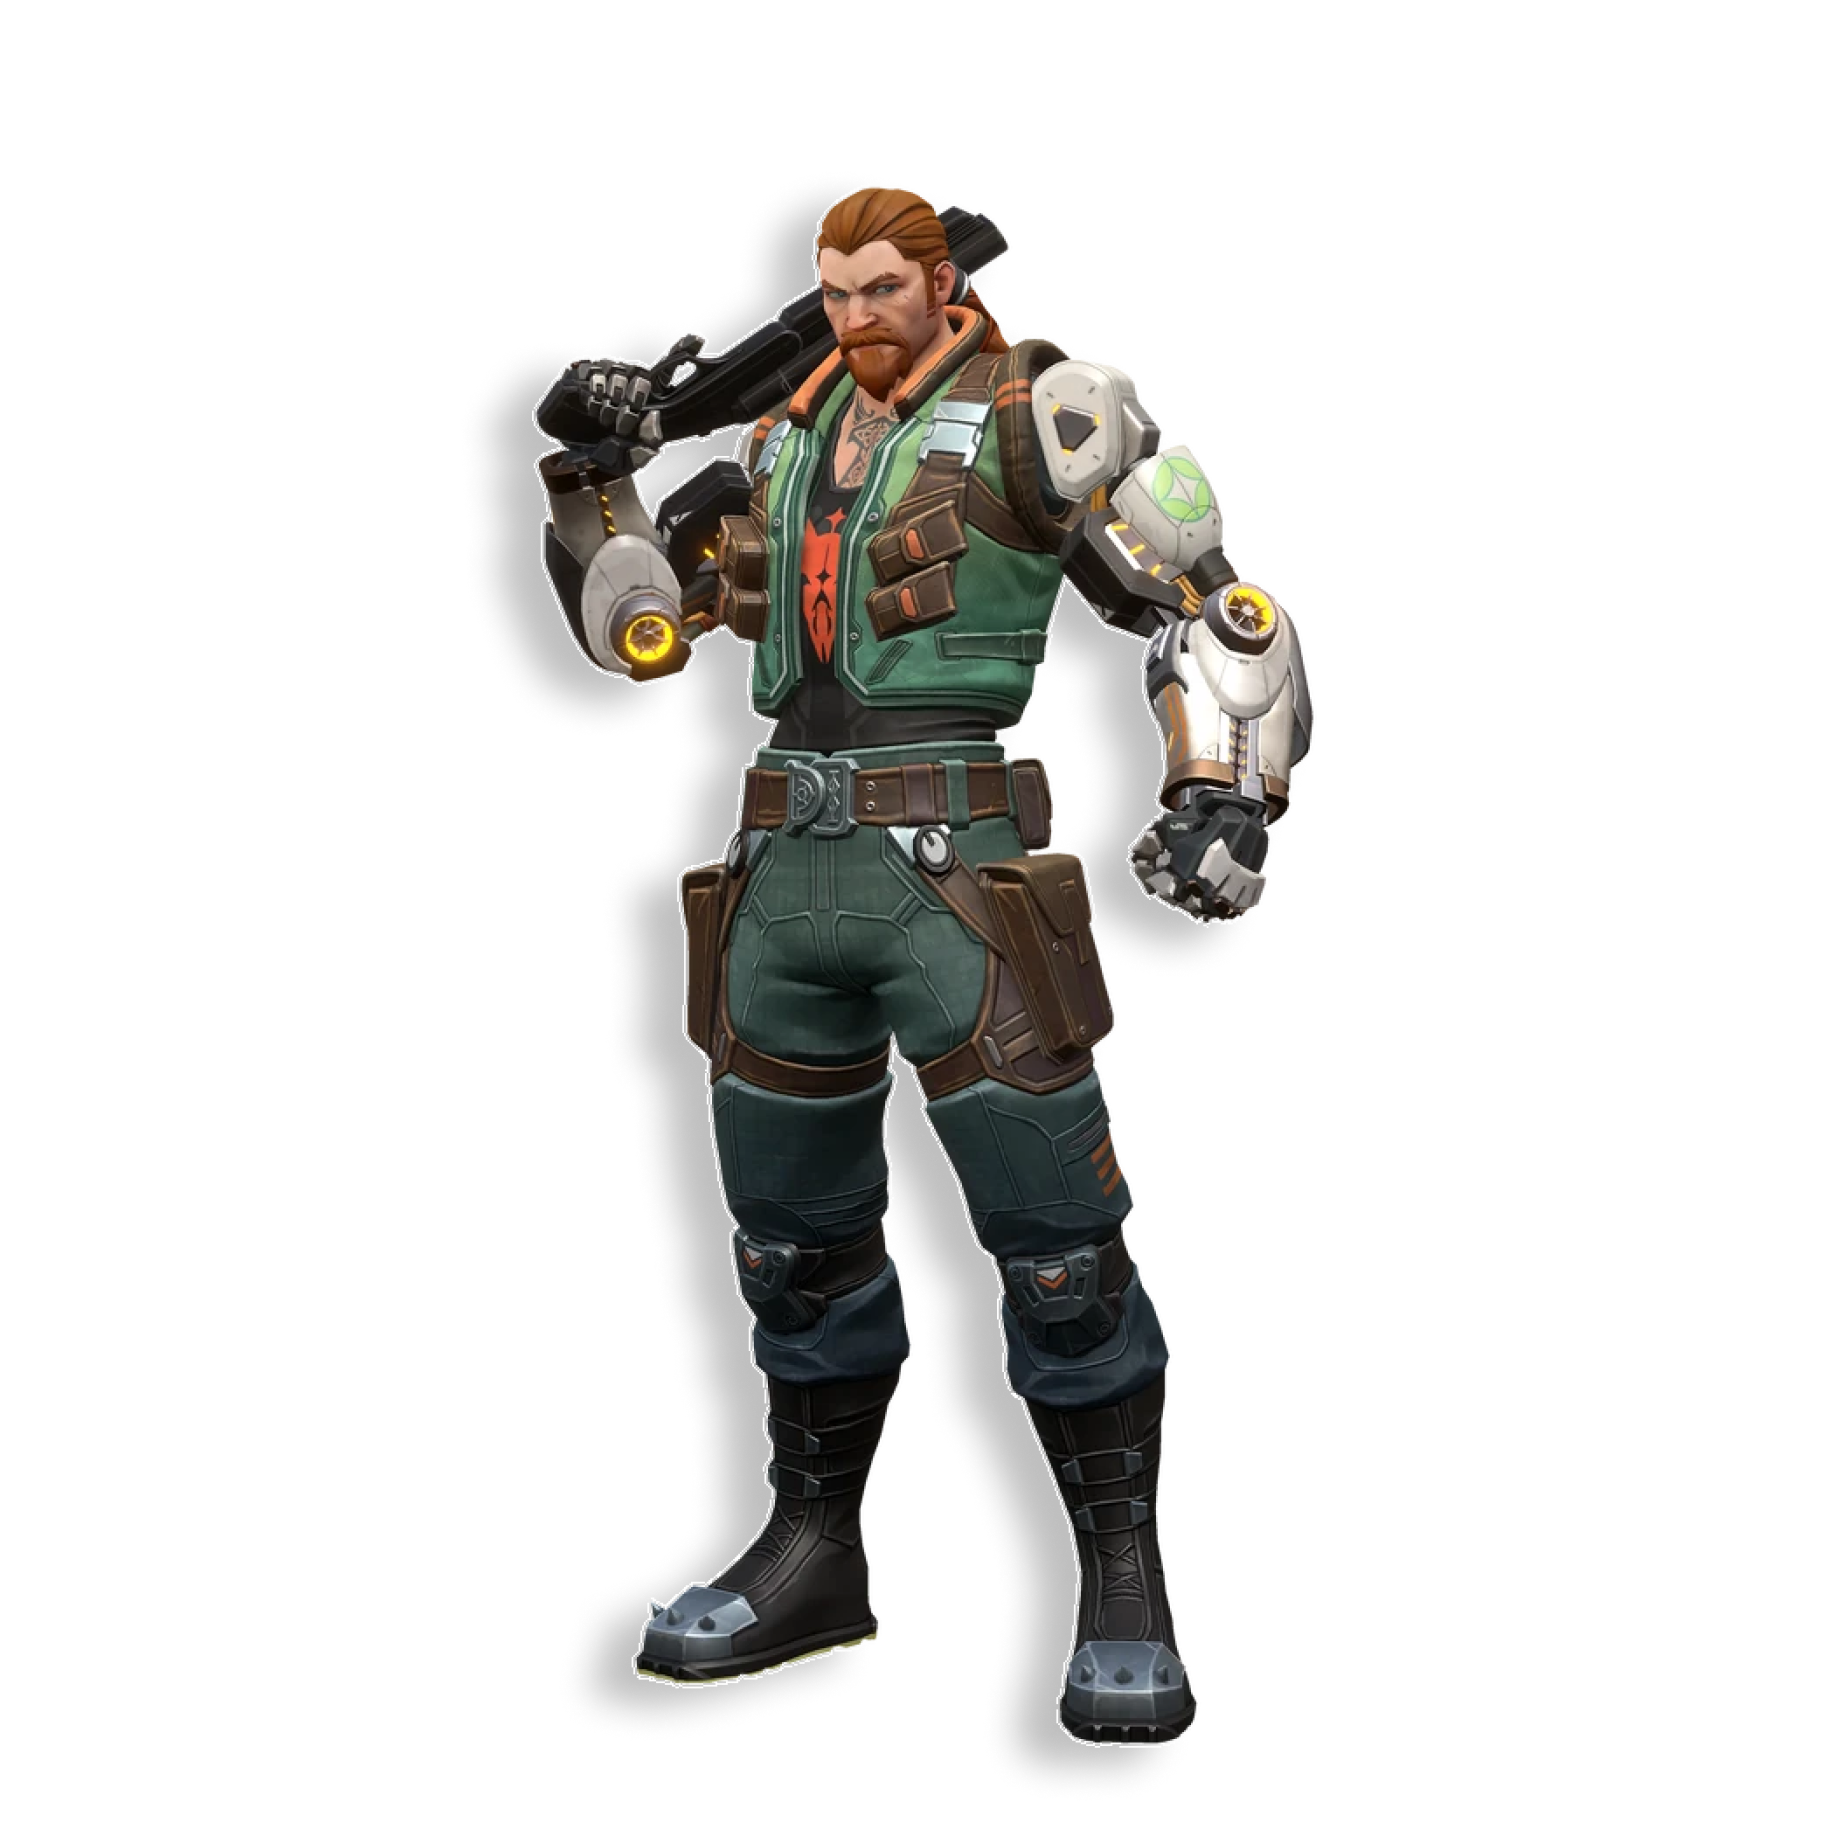
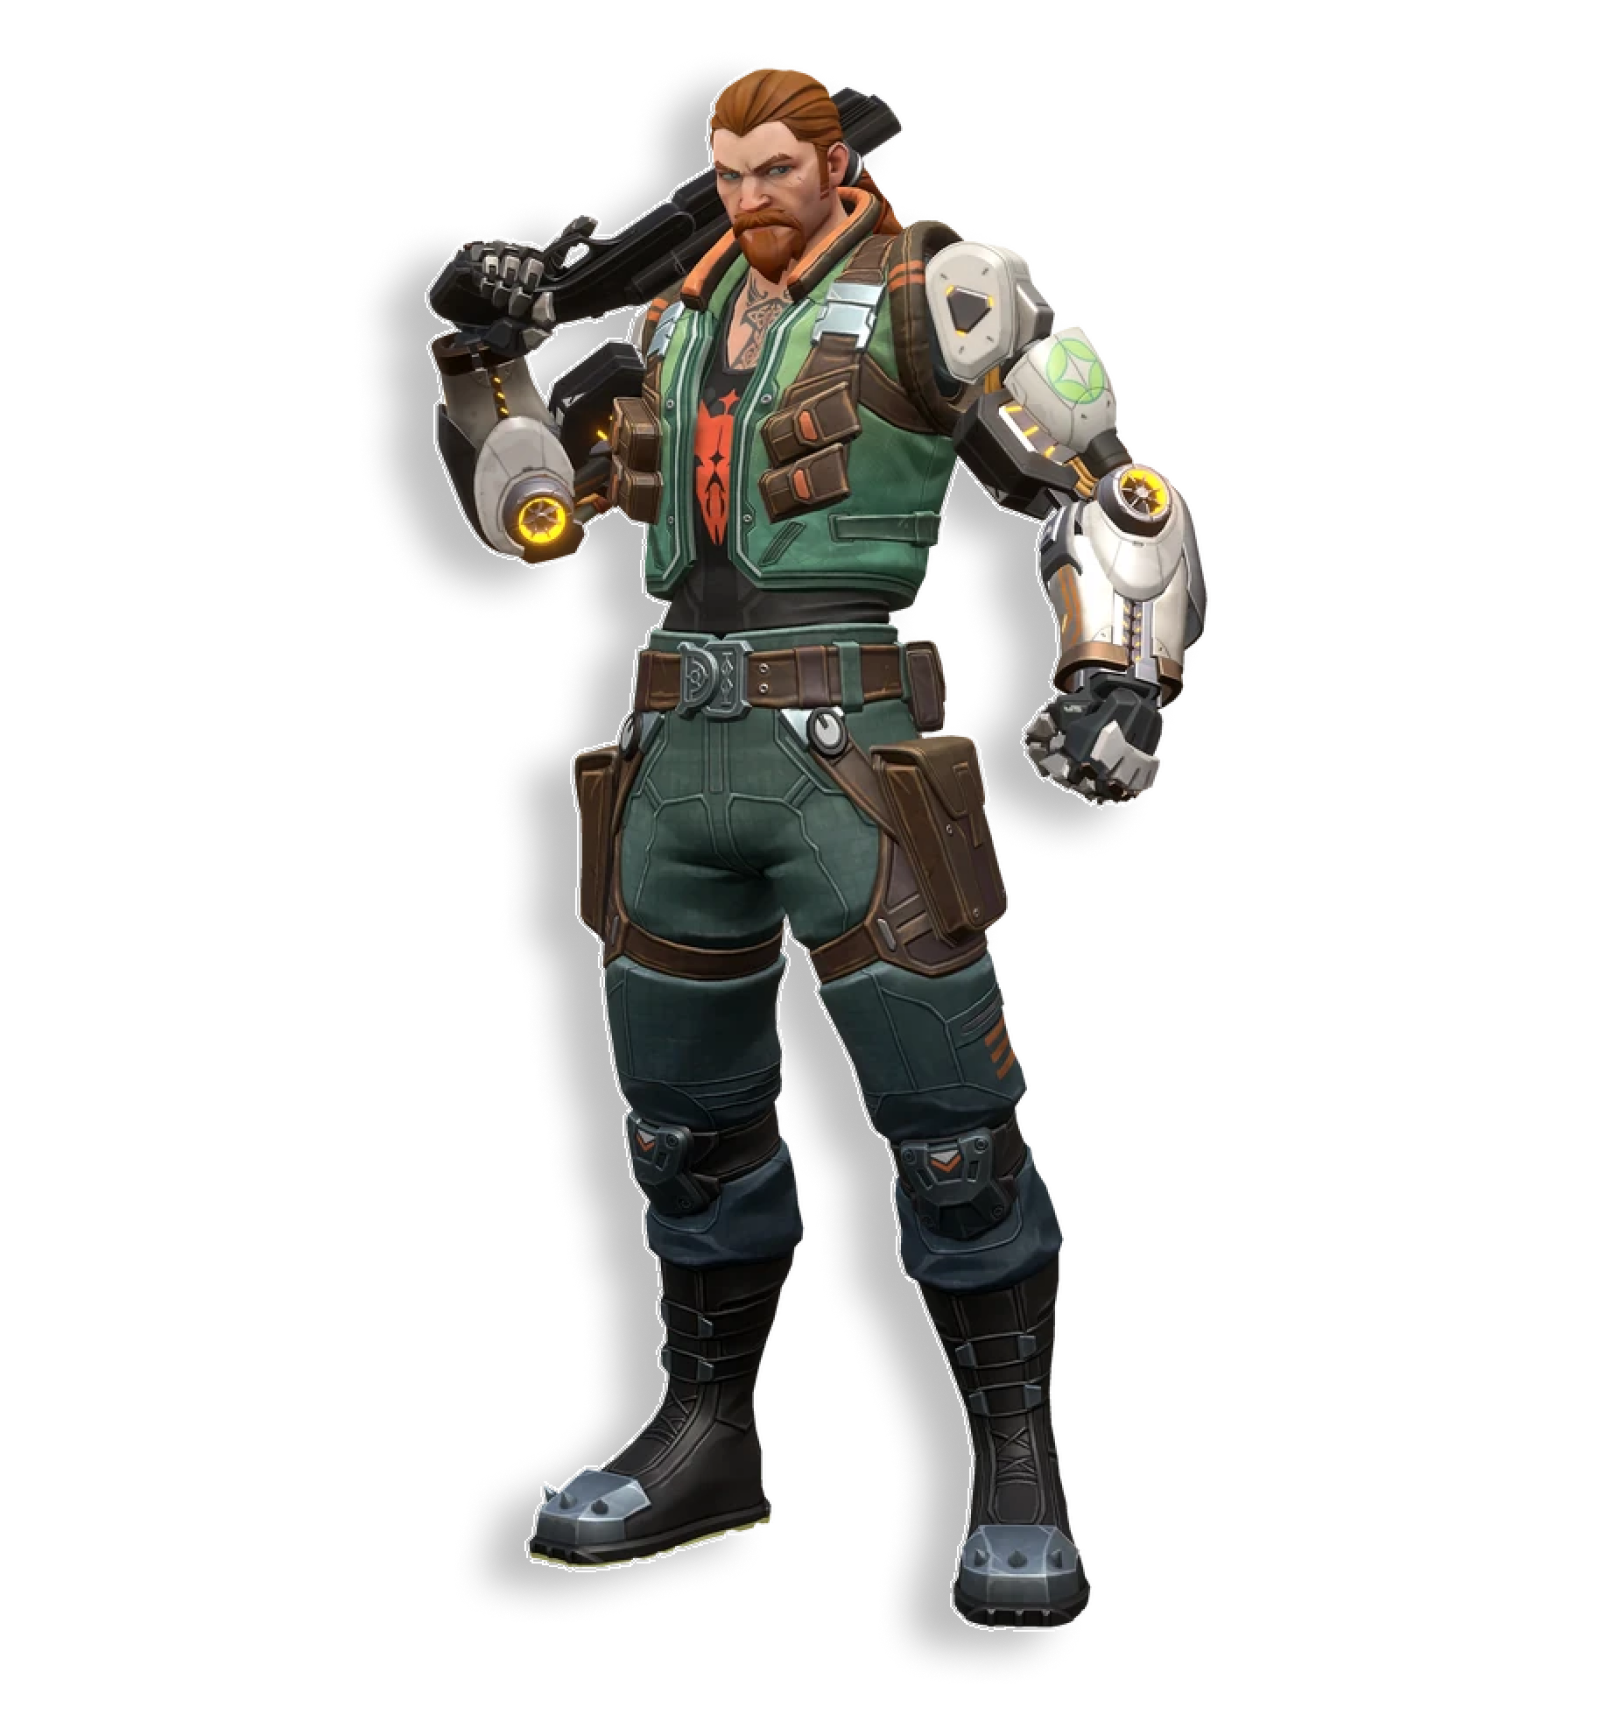
풀샷 이미지 교체, 요원 lock 추가

Changed region(s): [[0.2166, 0.031, 0.7735, 0.9608]]

diff --git a/index.html b/index.html
@@ -1,95 +1,153 @@
 <!DOCTYPE html>
 <html lang="en">
-  <head>
-    <meta charset="UTF-8" />
-    <meta name="viewport" content="width=device-width, initial-scale=1.0" />
-    <title>Valorant Pick Screen</title>
-    <style>
-      /* 기본 클래스 */
-      body {
-        margin: 0;
 
-        height: 100vh;
-        background-image: url(./img/valorant_pick_bg.png);
-        background-size: cover;
-        background-repeat: no-repeat;
-        background-position: center center;
-        overflow: hidden;
-      }
+<head>
+  <meta charset="UTF-8" />
+  <meta name="viewport" content="width=device-width, initial-scale=1.0" />
+  <title>Valorant Pick Screen</title>
+  <style>
+    /* 기본 클래스 */
+    body {
+      margin: 0;
+      height: 100vh;
+      background-image: url(./img/valorant_pick_bg.png);
+      background-size: cover;
+      background-repeat: no-repeat;
+      background-position: center center;
+      overflow: hidden;
+    }
 
-      .full-stand {
-        position: absolute;
-        top: 0;
-        left: 0;
-        right: 0;
-        margin: 0 auto;
+    .full-stand {
+      position: absolute;
+      top: 0;
+      left: 0;
+      right: 0;
+      margin: 0 auto;
+      opacity: 0;
+      transition: 0.75s;
+    }
 
-        opacity: 0;
-        transition: 0.5s;
-      }
+    .agent-name h1 {
+      opacity: 0;
+      position: absolute;
+      left: 73vw;
+      color: #e6ecaf;
+      font-size: 100px;
+      transition: 0.75s;
+    }
 
-      .agent-name h1 {
-        position: absolute;
-        left: 73vw;
-        /* top: -0px; */
-        color: #e6ecaf;
-        font-size: 100px;
-      }
+    .container {
+      position: absolute;
+      left: 50%;
+      transform: translateX(-50%);
+      bottom: 5%;
+    }
 
-      .container {
-        position: absolute;
-        left: 50%;
-        transform: translateX(-50%);
-        bottom: 5%;
-      }
-      .agents {
-        /* width: 800px; */
-        display: flex;
-        justify-content: center;
-        flex-wrap: wrap;
-        /* border: 1px solid orange; */
-      }
-      .agents img {
-        margin: 5px;
-        border: 2px solid gray;
-        cursor: pointer;
-      }
-      /* 공통클래스 */
-      .visible {
-        opacity: 1;
-      }
-      .agents .selected {
-        border: 2px solid #e6ecaf;
-      }
-    </style>
-  </head>
+    .agents {
+      display: flex;
+      justify-content: center;
+      flex-wrap: wrap;
+    }
 
-  <body>
-    <!-- 요원 풀샷 -->
-    <img class="full-stand visible" src="./img/agent_full_jett.png" alt="" />
-    <img class="full-stand" src="./img/agent_full_astra.png" alt="" />
+    .agents img {
+      margin: 5px;
+      border: 2px solid gray;
+      cursor: pointer;
+    }
 
-    <div class="agent-name">
-      <h1>제트</h1>
-      <h1>아스트라</h1>
+    /* 공통클래스 */
+    .visible {
+      opacity: 1 !important;
+    }
+
+    .agents .selected {
+      border: 2px solid #e6ecaf;
+    }
+  </style>
+</head>
+
+<body>
+  <!-- 요원 풀샷 -->
+  <img class="full-stand visible jett" src="./img/agent_full_jett.png" alt="" />
+  <img class="full-stand breach" src="./img/agent_full_breach.png" alt="" />
+  <img class="full-stand astra" src="./img/agent_full_astra.png" alt="" />
+  <img class="full-stand brimstone" src="./img/agent_full_brimstone.png" alt="" />
+  <img class="full-stand sage" src="./img/agent_full_sage.png" alt="" />
+
+  <!-- 요원 이름 -->
+  <div class="agent-name">
+    <h1 class="visible jett">제트</h1>
+    <h1 class="breach">브리치</h1>
+    <h1 class="astra">아스트라</h1>
+    <h1 class="brimstone">브림스톤</h1>
+    <h1 class="sage">세이지</h1>
+  </div>
+
+  <!-- 요원 선택창 -->
+  <div class="container">
+    <img src="./img/pick-bar.png" alt="" />
+    <div class="agents">
+      <img class="selected jett" src="./img/agent_avatar_jett.png" alt="" />
+      <img class="breach" src="./img/agent_avatar_breach.png" alt="" />
+      <img class="astra" src="./img/agent_avatar_astra.png" alt="" />
+      <img class="brimstone" src="./img/agent_avatar_brimstone.png" alt="" />
+      <img class="sage" src="./img/agent_avatar_sage.png" alt="" />
+      <img src="./img/agent_avatar_locked.png" alt="" />
+      <img src="./img/agent_avatar_locked.png" alt="" />
+      <img src="./img/agent_avatar_locked.png" alt="" />
+      <img src="./img/agent_avatar_locked.png" alt="" />
     </div>
-    <!-- <h1>아스트라</h1> -->
+  </div>
 
-    <div class="container">
-      <img src="./img/pick-bar.png" alt="" />
-      <div class="agents">
-        <img class="selected" src="./img/agent_avatar_jett.png" alt="" />
-        <img src="./img/agent_avatar_astra.png" alt="" />
-        <img src="./img/agent_avatar_breach.png" alt="" />
-        <img src="./img/agent_avatar_brimstone.png" alt="" />
-        <img src="./img/agent_avatar_jett.png" alt="" />
-        <img src="./img/agent_avatar_jett.png" alt="" />
-        <img src="./img/agent_avatar_jett.png" alt="" />
-        <img src="./img/agent_avatar_jett.png" alt="" />
-        <img src="./img/agent_avatar_jett.png" alt="" />
-      </div>
-    </div>
+  <script>
 
-    <script></script>
-  </body>
+    // 요원 풀샷, 선택사진, 이름 전체 선택
+    const allAgentFullShot = document.querySelectorAll('.full-stand');
+    const allAgentName = document.querySelectorAll('.agent-name h1');
+    const allAgentAvatar = document.querySelectorAll('.agents img');
+
+    // 1단계 : 요원 각각 처리
+    /*
+    const jett = document.querySelectorAll('.jett');
+    const breach = document.querySelectorAll('.breach');
+
+    jett.forEach(element => {
+      element.addEventListener('click', () => {
+        allAgentFullShot.forEach(el => el.classList.remove('selected','visible'));
+        allAgentName.forEach(el => el.classList.remove('selected','visible'));
+        allAgentAvatar.forEach(el => el.classList.remove('selected','visible'));
+
+        jett.forEach(el => el.classList.add('selected','visible'));
+      });
+    });    
+
+    breach.forEach(element => {
+      element.addEventListener('click', () => {
+        allAgentFullShot.forEach(el => el.classList.remove('selected','visible'));
+        allAgentName.forEach(el => el.classList.remove('selected','visible'));
+        allAgentAvatar.forEach(el => el.classList.remove('selected','visible'));
+
+        breach.forEach(el => el.classList.add('selected','visible'));
+      });
+    }); 
+    */
+
+    // 2단계 : 요원 배열로 처리
+    const agents = ['jett', 'breach', 'astra', 'brimstone', 'sage'];
+
+    agents.forEach(agent => {
+      const elements = document.querySelectorAll(`.${agent}`); // 템플릿 리터럴로 요원클래스명 자리 갈아끼기
+      elements.forEach(element => {
+        element.addEventListener('click', () => {
+          allAgentFullShot.forEach(el => el.classList.remove('selected', 'visible'));
+          allAgentName.forEach(el => el.classList.remove('selected', 'visible'));
+          allAgentAvatar.forEach(el => el.classList.remove('selected', 'visible'));
+
+          elements.forEach(el => el.classList.add('selected', 'visible'));
+        });
+      });
+    });
+  </script>
+</body>
+
 </html>
